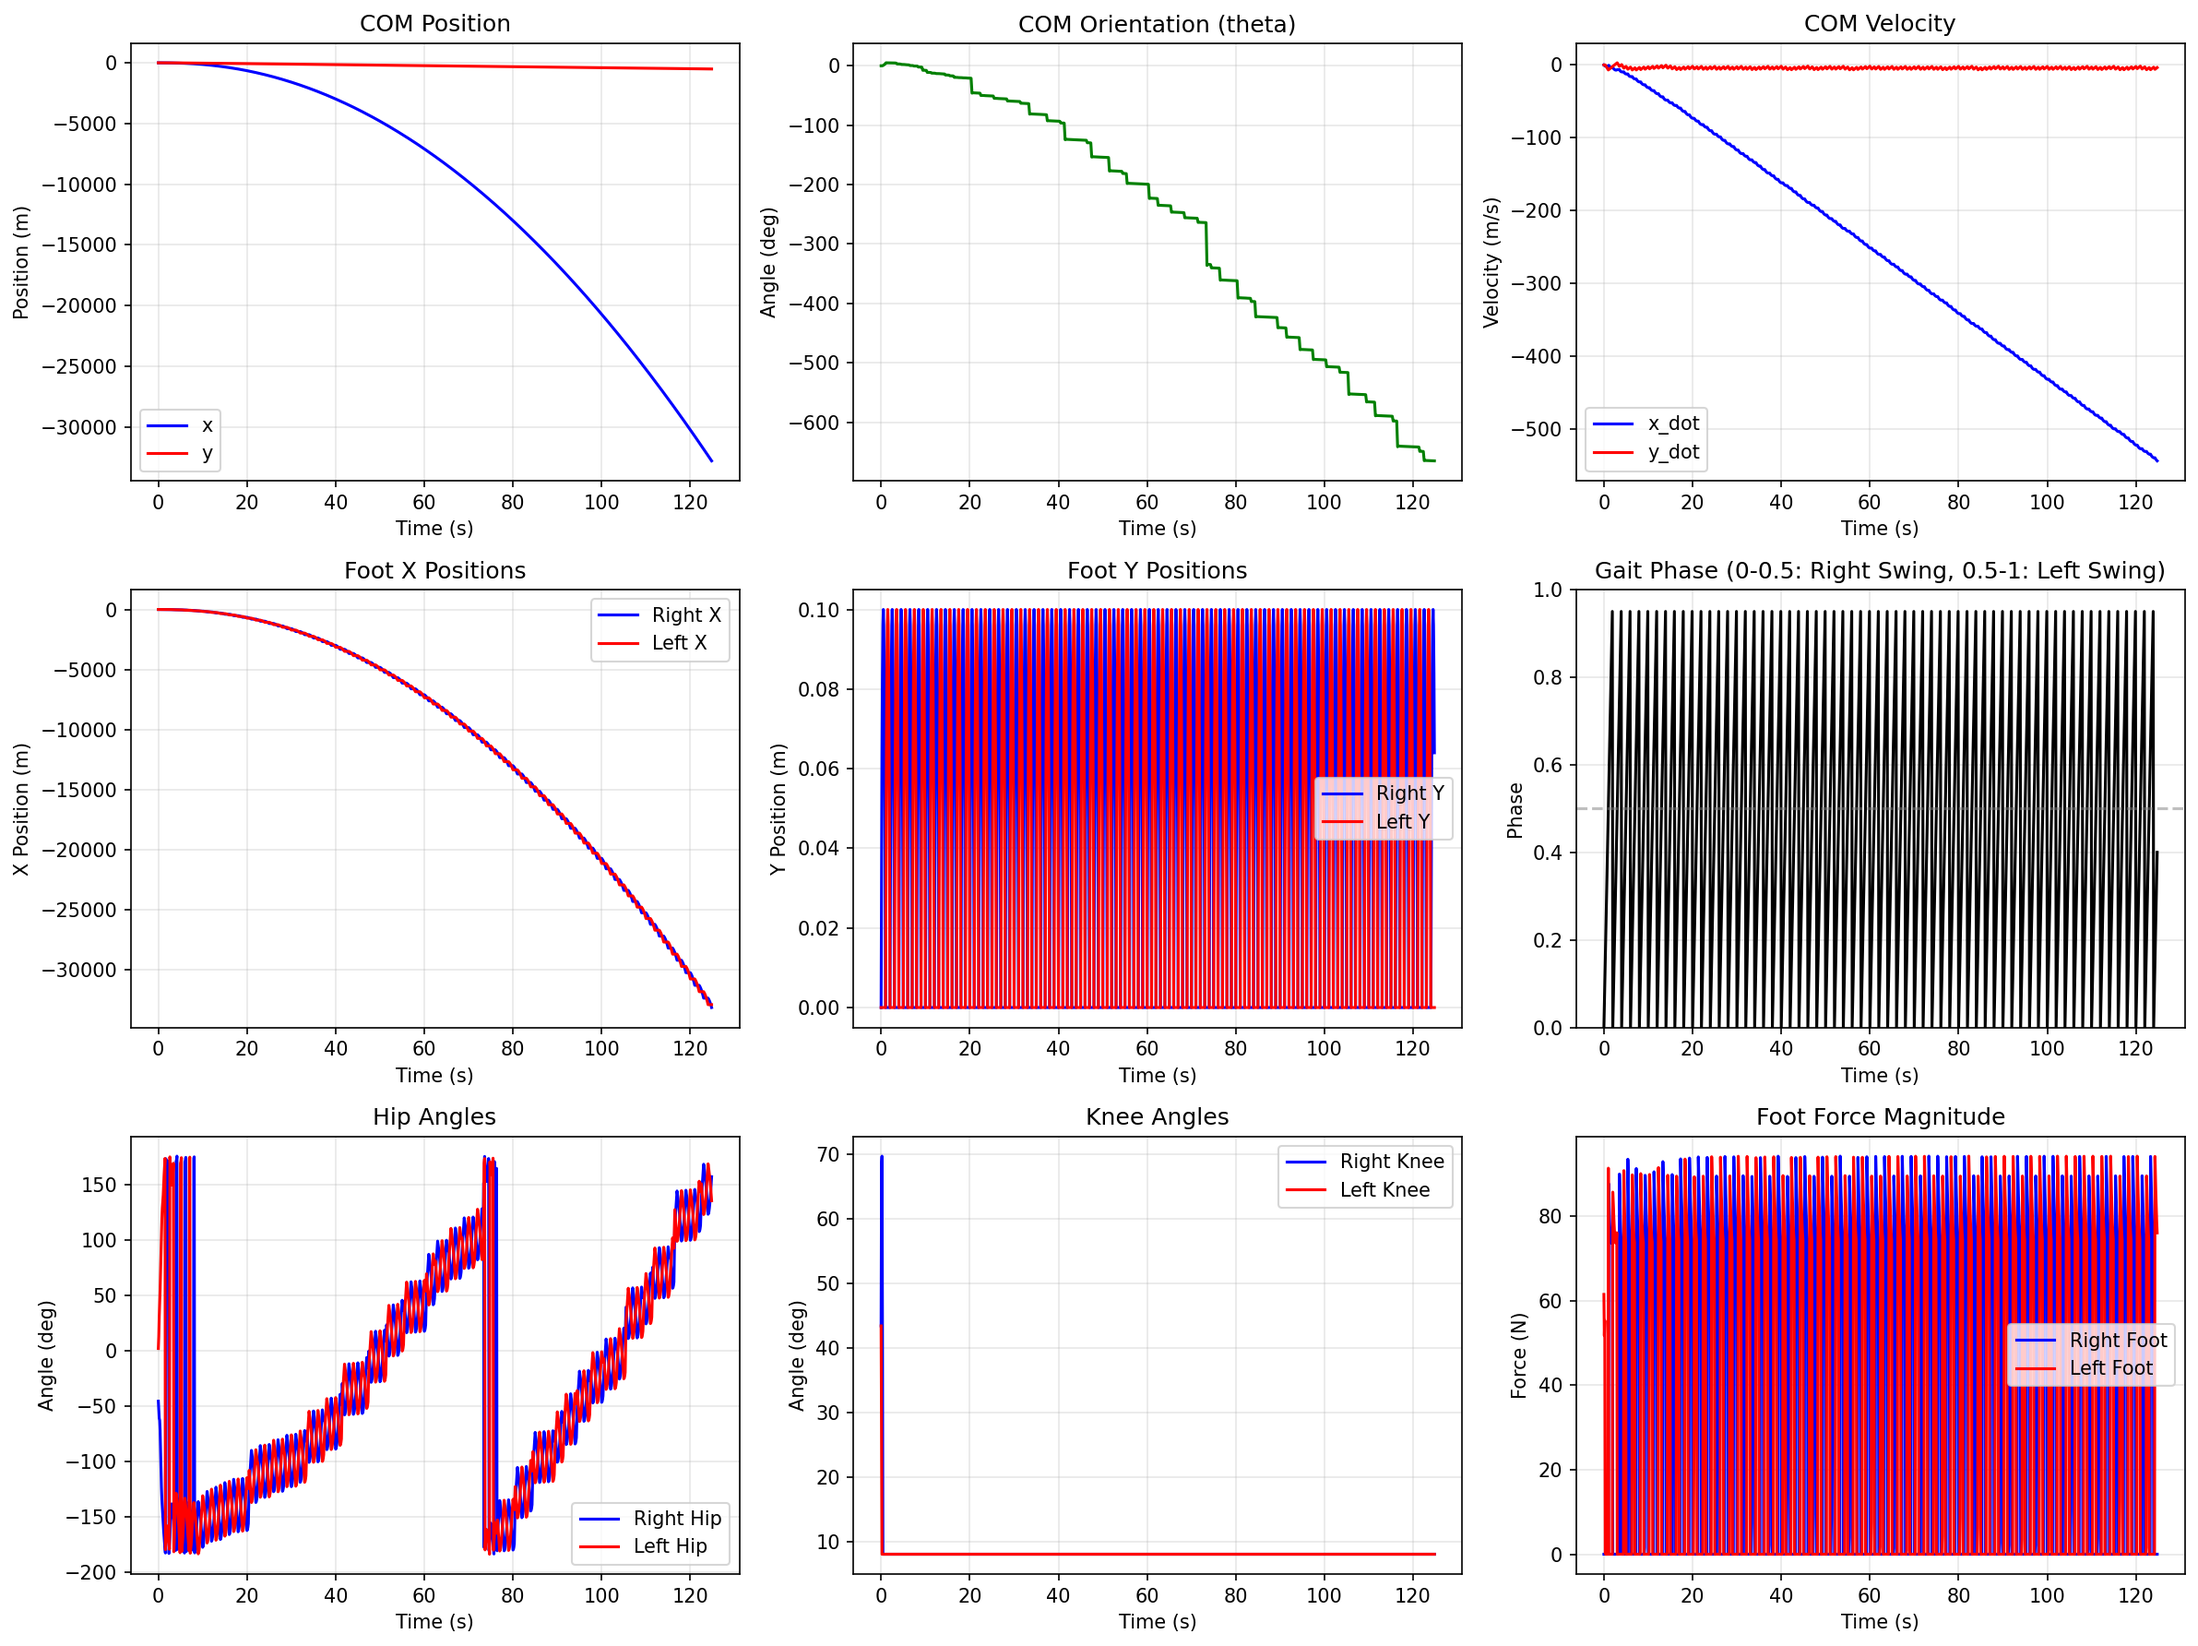
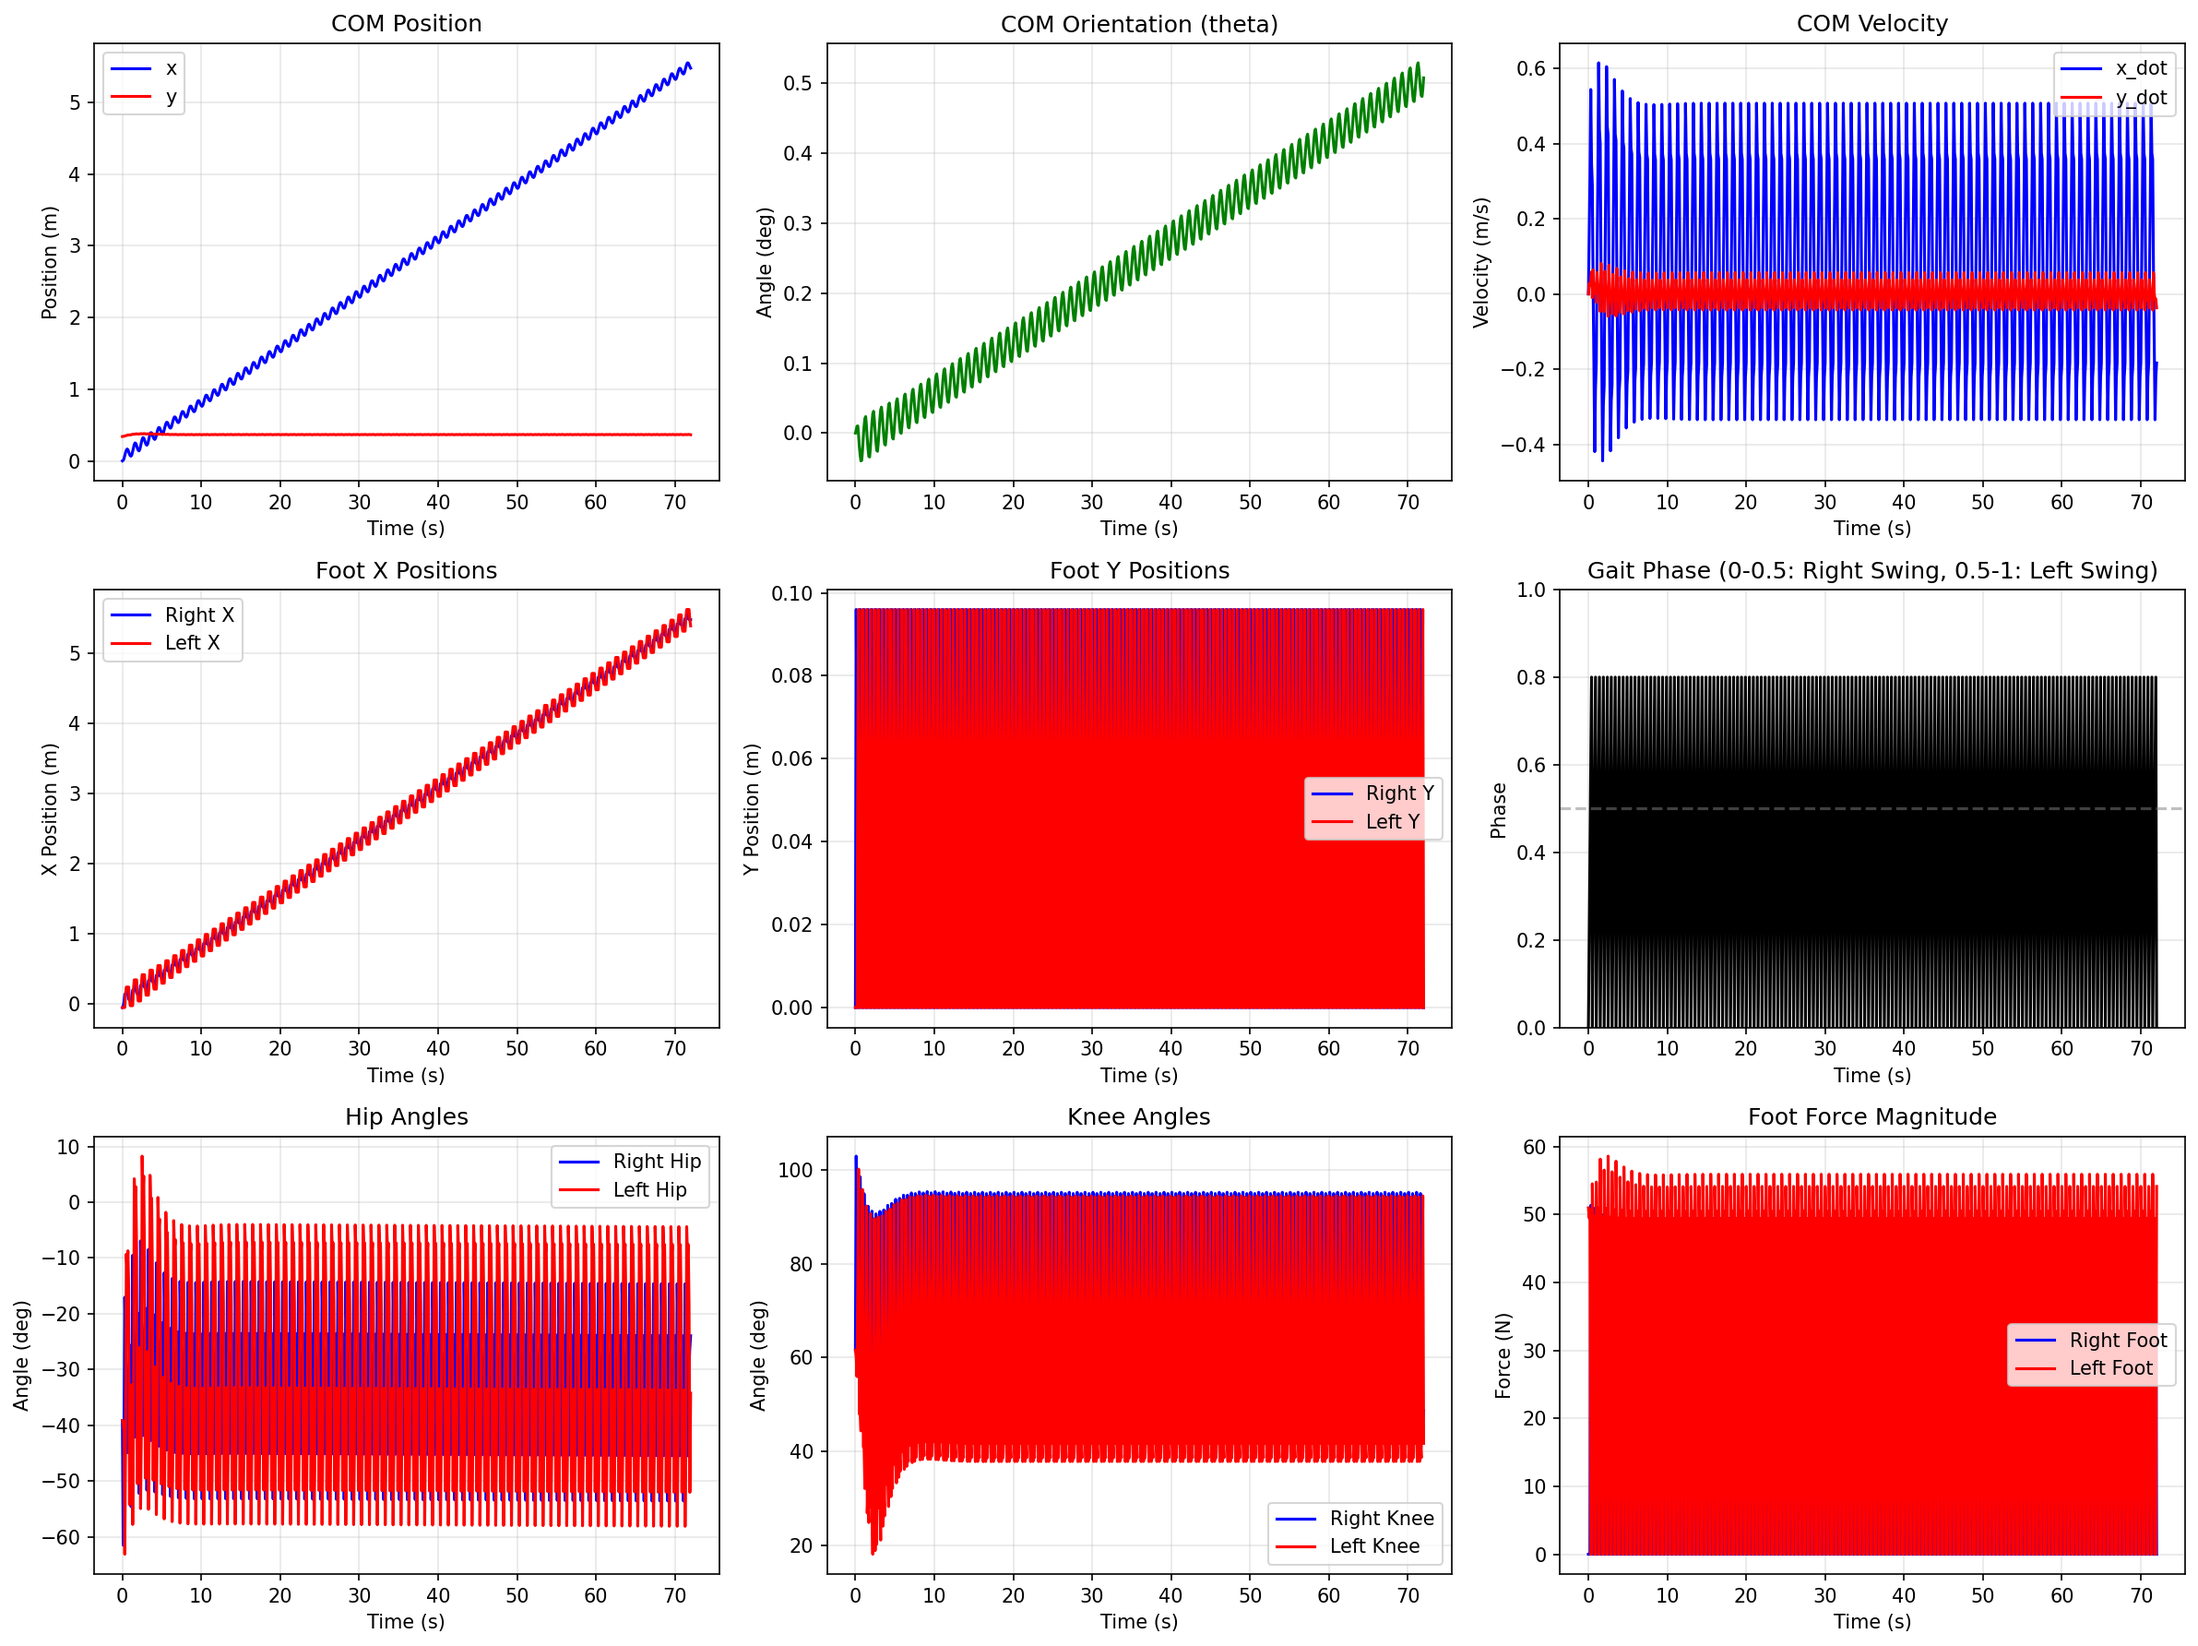
Working for 2D

diff --git a/biped_2D.py b/biped_2D.py
@@ -164,8 +164,8 @@ class Simulator:
         self.state = np.array([0, robot.nominal_com_height, 0, 0, 0, 0, -GRAVITY])
 
         # Feet on ground with narrow stance to stay within leg reach
-        stance_width = 0.15
-        self.foot_pos_world_frame = np.array([-stance_width, robot.ground_level, stance_width, robot.ground_level])
+        stance_width = 0.05
+        self.foot_pos_world_frame = np.array([-stance_width, robot.ground_level, -stance_width, robot.ground_level])
 
         # Data recording for plotting
         self.time_history = []
@@ -283,7 +283,7 @@ class Simulator:
 
 if __name__ == "__main__":
     robot = Robot_biped_2D(mass=5.0, moment_of_inertia=0.02, L_thigh=0.2, L_shank=0.2, friction_coeff=0.8)
-    controller = Controller(robot, control_dt=0.1, time_horizon=10, stepping_frequency=0.5)  # Much slower: 0.5 Hz = 2s per step
+    controller = Controller(robot, control_dt=0.1, time_horizon=10, stepping_frequency=2)  # Much slower: 0.5 Hz = 2s per step
     simulator = Simulator(robot, controller, sim_dt=0.1)
 
     desired_velocity = np.array([0.1, 0.0])  # desired forward velocity in x and y (reduced for testing)
